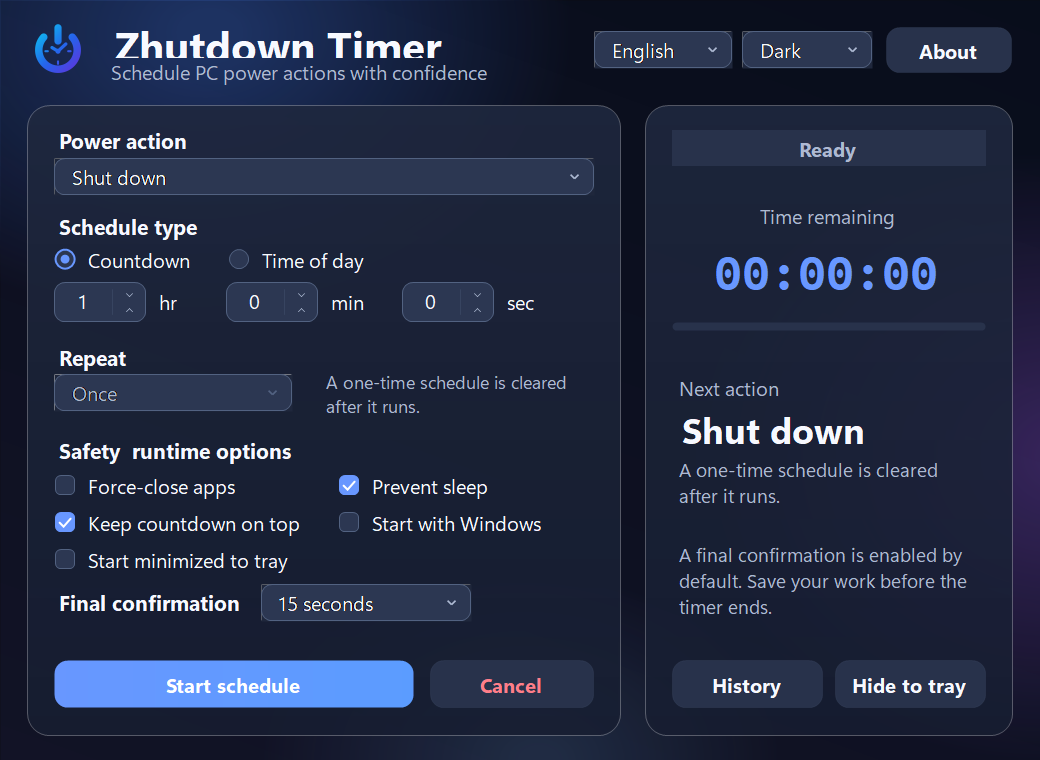
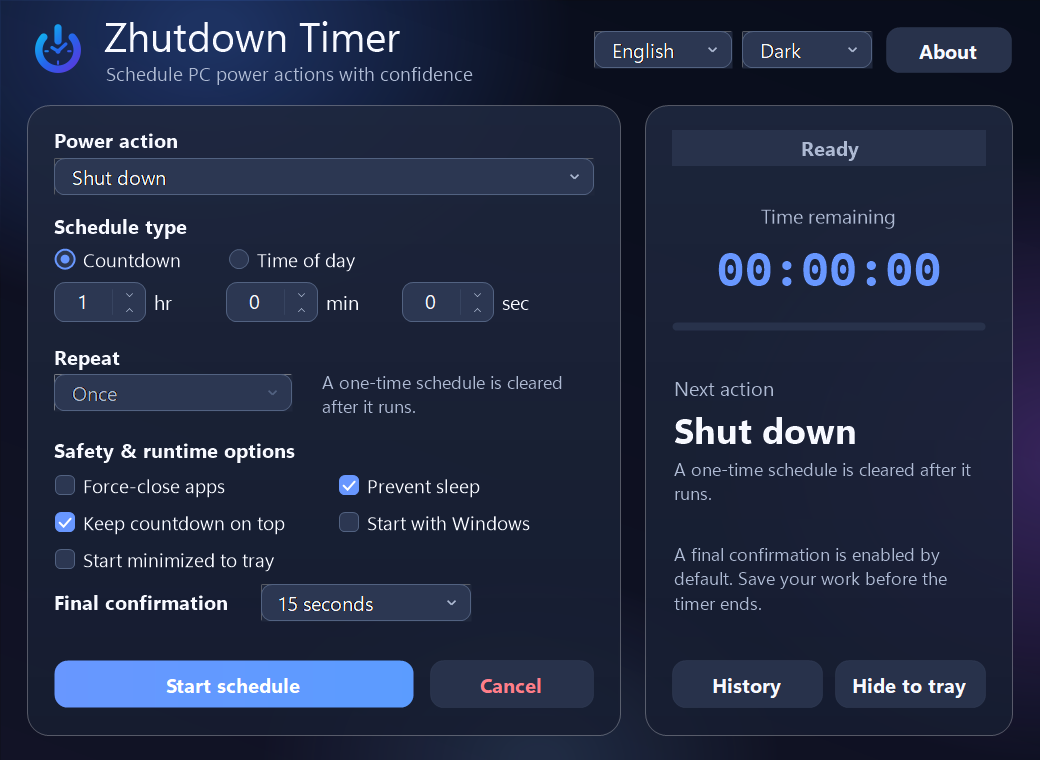
发布 v2.1.1 字体渲染修复
修复透明雾面层上的中文标题渲染、ClearType 彩边及高 DPI 输入框文字裁切。

diff --git a/src/ZhutdownTimer/MainForm.cs b/src/ZhutdownTimer/MainForm.cs
@@ -16,17 +16,17 @@ namespace ZhutdownTimer
         private readonly ToolStripMenuItem trayExit = new ToolStripMenuItem();
 
         private readonly PictureBox logo = new PictureBox();
-        private readonly Label titleLabel = new Label();
-        private readonly Label subtitleLabel = new Label();
+        private readonly GlassLabel titleLabel = new GlassLabel();
+        private readonly GlassLabel subtitleLabel = new GlassLabel();
         private readonly ModernComboBox languageBox = new ModernComboBox();
         private readonly ModernComboBox themeBox = new ModernComboBox();
         private readonly ModernButton aboutButton = new ModernButton();
 
         private readonly CardPanel scheduleCard = new CardPanel();
         private readonly CardPanel statusCard = new CardPanel();
-        private readonly Label actionCaption = new Label();
+        private readonly GlassLabel actionCaption = new GlassLabel();
         private readonly ModernComboBox actionBox = new ModernComboBox();
-        private readonly Label scheduleCaption = new Label();
+        private readonly GlassLabel scheduleCaption = new GlassLabel();
         private readonly GlassRadioButton countdownMode = new GlassRadioButton();
         private readonly GlassRadioButton clockMode = new GlassRadioButton();
         private readonly Panel countdownPanel = new Panel();
@@ -34,32 +34,32 @@ namespace ZhutdownTimer
         private readonly GlassNumberInput hours = new GlassNumberInput();
         private readonly GlassNumberInput minutes = new GlassNumberInput();
         private readonly GlassNumberInput seconds = new GlassNumberInput();
-        private readonly Label hoursLabel = new Label();
-        private readonly Label minutesLabel = new Label();
-        private readonly Label secondsLabel = new Label();
+        private readonly GlassLabel hoursLabel = new GlassLabel();
+        private readonly GlassLabel minutesLabel = new GlassLabel();
+        private readonly GlassLabel secondsLabel = new GlassLabel();
         private readonly GlassTimeInput clockPicker = new GlassTimeInput();
-        private readonly Label repeatCaption = new Label();
+        private readonly GlassLabel repeatCaption = new GlassLabel();
         private readonly ModernComboBox repeatBox = new ModernComboBox();
-        private readonly Label optionsCaption = new Label();
+        private readonly GlassLabel optionsCaption = new GlassLabel();
         private readonly GlassCheckBox forceClose = new GlassCheckBox();
         private readonly GlassCheckBox preventSleep = new GlassCheckBox();
         private readonly GlassCheckBox alwaysOnTop = new GlassCheckBox();
         private readonly GlassCheckBox startWithWindows = new GlassCheckBox();
         private readonly GlassCheckBox startMinimized = new GlassCheckBox();
-        private readonly Label confirmCaption = new Label();
+        private readonly GlassLabel confirmCaption = new GlassLabel();
         private readonly ModernComboBox confirmBox = new ModernComboBox();
-        private readonly Label repeatHint = new Label();
+        private readonly GlassLabel repeatHint = new GlassLabel();
         private readonly ModernButton startButton = new ModernButton();
         private readonly ModernButton cancelButton = new ModernButton();
 
-        private readonly Label stateBadge = new Label();
-        private readonly Label remainingCaption = new Label();
-        private readonly Label remainingLabel = new Label();
+        private readonly GlassLabel stateBadge = new GlassLabel();
+        private readonly GlassLabel remainingCaption = new GlassLabel();
+        private readonly GlassLabel remainingLabel = new GlassLabel();
         private readonly FlatProgressBar progress = new FlatProgressBar();
-        private readonly Label nextCaption = new Label();
-        private readonly Label actionLabel = new Label();
-        private readonly Label targetLabel = new Label();
-        private readonly Label safetyHint = new Label();
+        private readonly GlassLabel nextCaption = new GlassLabel();
+        private readonly GlassLabel actionLabel = new GlassLabel();
+        private readonly GlassLabel targetLabel = new GlassLabel();
+        private readonly GlassLabel safetyHint = new GlassLabel();
         private readonly ModernButton historyButton = new ModernButton();
         private readonly ModernButton minimizeButton = new ModernButton();
 
@@ -119,10 +119,10 @@ namespace ZhutdownTimer
             logo.Image = AssetLoader.LoadLogo();
             logo.SizeMode = PictureBoxSizeMode.Zoom;
             logo.SetBounds(28, 20, 60, 60);
-            titleLabel.Font = UiFonts.Create(21F, FontStyle.Bold);
-            titleLabel.SetBounds(104, 17, 390, 42);
+            titleLabel.Font = UiFonts.Create(20.5F, FontStyle.Regular);
+            titleLabel.SetBounds(104, 8, 390, 52);
             subtitleLabel.Font = UiFonts.Create(9.6F, FontStyle.Regular);
-            subtitleLabel.SetBounds(106, 58, 460, 28);
+            subtitleLabel.SetBounds(106, 60, 460, 28);
 
             languageBox.DropDownStyle = ComboBoxStyle.DropDownList;
             languageBox.SetBounds(594, 31, 138, 38);
@@ -476,7 +476,7 @@ namespace ZhutdownTimer
         private void ApplyTypography()
         {
             Font = UiFonts.Create(10F, FontStyle.Regular);
-            titleLabel.Font = UiFonts.Create(21F, FontStyle.Bold);
+            titleLabel.Font = UiFonts.Create(20.5F, FontStyle.Regular);
             subtitleLabel.Font = UiFonts.Create(9.6F, FontStyle.Regular);
             actionCaption.Font = scheduleCaption.Font = repeatCaption.Font = optionsCaption.Font = confirmCaption.Font = UiFonts.Create(10.2F, FontStyle.Bold);
             remainingCaption.Font = nextCaption.Font = UiFonts.Create(10F, FontStyle.Regular);
@@ -496,8 +496,9 @@ namespace ZhutdownTimer
                 actionLabel, targetLabel, safetyHint })
             {
                 label.AutoEllipsis = true;
-                label.UseCompatibleTextRendering = false;
+                label.UseCompatibleTextRendering = true;
             }
+            titleLabel.AutoEllipsis = subtitleLabel.AutoEllipsis = false;
             repeatHint.AutoEllipsis = targetLabel.AutoEllipsis = safetyHint.AutoEllipsis = false;
         }
 

diff --git a/src/ZhutdownTimer/Controls.cs b/src/ZhutdownTimer/Controls.cs
@@ -1,6 +1,7 @@
 using System;
 using System.Drawing;
 using System.Drawing.Drawing2D;
+using System.Drawing.Text;
 using System.Windows.Forms;
 
 namespace ZhutdownTimer
@@ -75,6 +76,47 @@ namespace ZhutdownTimer
             path.AddArc(rectangle.Left, rectangle.Bottom - diameter, diameter, diameter, 90, 90);
             path.CloseFigure();
             return path;
+        }
+    }
+
+    internal static class UiText
+    {
+        public static void Draw(Graphics graphics, string text, Font font, Color color, Rectangle bounds,
+            ContentAlignment alignment, bool wrap, bool ellipsis)
+        {
+            graphics.TextRenderingHint = TextRenderingHint.AntiAliasGridFit;
+            using (var brush = new SolidBrush(color))
+            using (var format = new StringFormat(StringFormat.GenericTypographic))
+            {
+                format.Alignment = alignment == ContentAlignment.TopCenter || alignment == ContentAlignment.MiddleCenter || alignment == ContentAlignment.BottomCenter
+                    ? StringAlignment.Center
+                    : alignment == ContentAlignment.TopRight || alignment == ContentAlignment.MiddleRight || alignment == ContentAlignment.BottomRight
+                        ? StringAlignment.Far : StringAlignment.Near;
+                format.LineAlignment = alignment == ContentAlignment.MiddleLeft || alignment == ContentAlignment.MiddleCenter || alignment == ContentAlignment.MiddleRight
+                    ? StringAlignment.Center
+                    : alignment == ContentAlignment.BottomLeft || alignment == ContentAlignment.BottomCenter || alignment == ContentAlignment.BottomRight
+                        ? StringAlignment.Far : StringAlignment.Near;
+                if (!wrap) format.FormatFlags |= StringFormatFlags.NoWrap;
+                format.Trimming = ellipsis ? StringTrimming.EllipsisCharacter : StringTrimming.None;
+                graphics.DrawString(text ?? string.Empty, font, brush, bounds, format);
+            }
+        }
+    }
+
+    internal sealed class GlassLabel : Label
+    {
+        public GlassLabel()
+        {
+            DoubleBuffered = true;
+            SetStyle(ControlStyles.UserPaint | ControlStyles.AllPaintingInWmPaint | ControlStyles.OptimizedDoubleBuffer | ControlStyles.SupportsTransparentBackColor, true);
+            BackColor = Color.Transparent;
+            UseCompatibleTextRendering = true;
+        }
+
+        protected override void OnPaint(PaintEventArgs e)
+        {
+            UiText.Draw(e.Graphics, Text, Font, Enabled ? ForeColor : SystemColors.GrayText, ClientRectangle,
+                TextAlign, !AutoEllipsis, AutoEllipsis);
         }
     }
 
@@ -279,6 +321,7 @@ namespace ZhutdownTimer
             SetStyle(ControlStyles.SupportsTransparentBackColor, true);
             BackColor = Color.Transparent;
             editor.BorderStyle = BorderStyle.None;
+            editor.AutoSize = false;
             editor.TextAlign = HorizontalAlignment.Center;
             editor.Text = "0";
             editor.MaxLength = 3;
@@ -380,6 +423,7 @@ namespace ZhutdownTimer
             SetStyle(ControlStyles.SupportsTransparentBackColor, true);
             BackColor = Color.Transparent;
             editor.BorderStyle = BorderStyle.None;
+            editor.AutoSize = false;
             editor.TextAlign = HorizontalAlignment.Left;
             editor.Text = time.ToString("HH:mm:ss");
             editor.MaxLength = 8;
@@ -468,8 +512,8 @@ namespace ZhutdownTimer
                 }
             }
             Rectangle textBounds = new Rectangle(29, 0, Math.Max(1, Width - 30), Height);
-            TextRenderer.DrawText(e.Graphics, Text, Font, textBounds, Enabled ? p.Text : p.Muted,
-                TextFormatFlags.Left | TextFormatFlags.VerticalCenter | TextFormatFlags.EndEllipsis | TextFormatFlags.NoPrefix);
+            UiText.Draw(e.Graphics, Text, Font, Enabled ? p.Text : p.Muted, textBounds,
+                ContentAlignment.MiddleLeft, false, true);
         }
     }
 
@@ -499,8 +543,8 @@ namespace ZhutdownTimer
             if (Checked)
                 using (var dot = new SolidBrush(p.Accent)) e.Graphics.FillEllipse(dot, new Rectangle(circle.X + 5, circle.Y + 5, 9, 9));
             Rectangle textBounds = new Rectangle(29, 0, Math.Max(1, Width - 30), Height);
-            TextRenderer.DrawText(e.Graphics, Text, Font, textBounds, Enabled ? p.Text : p.Muted,
-                TextFormatFlags.Left | TextFormatFlags.VerticalCenter | TextFormatFlags.EndEllipsis | TextFormatFlags.NoPrefix);
+            UiText.Draw(e.Graphics, Text, Font, Enabled ? p.Text : p.Muted, textBounds,
+                ContentAlignment.MiddleLeft, false, true);
         }
     }
 

diff --git a/src/ZhutdownTimer/Dialogs.cs b/src/ZhutdownTimer/Dialogs.cs
@@ -9,8 +9,8 @@ namespace ZhutdownTimer
     internal sealed class ExecutionPromptForm : FrostedForm
     {
         private readonly Timer timer = new Timer();
-        private readonly Label countdownLabel = new Label();
-        private readonly Label bodyLabel = new Label();
+        private readonly GlassLabel countdownLabel = new GlassLabel();
+        private readonly GlassLabel bodyLabel = new GlassLabel();
         private int secondsLeft;
 
         public ExecutionPromptForm(PowerAction action, int seconds, ThemePalette palette)
@@ -28,7 +28,7 @@ namespace ZhutdownTimer
             Font = UiFonts.Create(10F, FontStyle.Regular);
             GlassPalette = palette;
 
-            var title = new Label
+            var title = new GlassLabel
             {
                 Text = string.Format(L.T("ConfirmTitle"), L.Action(action)),
                 Font = UiFonts.Create(18F, FontStyle.Bold),
@@ -183,12 +183,12 @@ namespace ZhutdownTimer
             GlassPalette = palette;
 
             var logo = new PictureBox { Image = AssetLoader.LoadLogo(), SizeMode = PictureBoxSizeMode.Zoom, Size = new Size(92, 92), Location = new Point(214, 24) };
-            var title = new Label { Text = L.T("AppTitle"), Font = UiFonts.Create(20F, FontStyle.Bold), AutoSize = false, TextAlign = ContentAlignment.MiddleCenter };
+            var title = new GlassLabel { Text = L.T("AppTitle"), Font = UiFonts.Create(20F, FontStyle.Bold), AutoSize = false, TextAlign = ContentAlignment.MiddleCenter };
             title.SetBounds(30, 126, 460, 48);
             Version version = Assembly.GetExecutingAssembly().GetName().Version;
-            var versionLabel = new Label { Text = string.Format(L.T("Version"), version.ToString(3)), AutoSize = false, TextAlign = ContentAlignment.MiddleCenter };
+            var versionLabel = new GlassLabel { Text = string.Format(L.T("Version"), version.ToString(3)), AutoSize = false, TextAlign = ContentAlignment.MiddleCenter };
             versionLabel.SetBounds(30, 176, 460, 28);
-            var body = new Label { Text = L.T("AboutBody"), AutoSize = false, TextAlign = ContentAlignment.TopCenter };
+            var body = new GlassLabel { Text = L.T("AboutBody"), AutoSize = false, TextAlign = ContentAlignment.TopCenter };
             body.SetBounds(50, 216, 420, 88);
 
             var source = new ModernButton { Text = L.T("SourceCode"), Palette = palette, Primary = true };

diff --git a/src/ZhutdownTimer/Program.cs b/src/ZhutdownTimer/Program.cs
@@ -132,6 +132,24 @@ namespace ZhutdownTimer
                             control.DrawToBitmap(bitmap, control.Bounds);
                         form.DrawPreviewOverlays(bitmap);
                         string suffix = store.State.Settings.Language == AppLanguage.English ? "en" : "zh";
+                        if (suffix == "zh")
+                        {
+                            using (Graphics titleGraphics = Graphics.FromImage(bitmap))
+                            using (Font titleFont = new Font("Microsoft YaHei UI", 20.5F, FontStyle.Regular, GraphicsUnit.Point))
+                            using (var titleBrush = new SolidBrush(ThemePalette.Create(ThemeDetector.UseDark(store.State.Settings.Theme)).Text))
+                            using (var titleFormat = new StringFormat(StringFormat.GenericTypographic))
+                            {
+                                titleGraphics.SmoothingMode = System.Drawing.Drawing2D.SmoothingMode.AntiAlias;
+                                titleFormat.FormatFlags |= StringFormatFlags.NoWrap;
+                                using (var titlePath = new System.Drawing.Drawing2D.GraphicsPath())
+                                {
+                                    float emSize = titleFont.SizeInPoints * titleGraphics.DpiY / 72F;
+                                    titlePath.AddString("定时电源助手", titleFont.FontFamily, (int)titleFont.Style,
+                                        emSize, new PointF(104, 8), titleFormat);
+                                    titleGraphics.FillPath(titleBrush, titlePath);
+                                }
+                            }
+                        }
                         string path = Path.Combine(Environment.CurrentDirectory, "ui-preview-" + suffix + ".png");
                         bitmap.Save(path, System.Drawing.Imaging.ImageFormat.Png);
                         Console.WriteLine(path);

diff --git a/src/ZhutdownTimer/AssemblyInfo.cs b/src/ZhutdownTimer/AssemblyInfo.cs
@@ -8,5 +8,5 @@ using System.Runtime.InteropServices;
 [assembly: AssemblyCopyright("Copyright © 2026 LONGSANGDONTSLEEP")]
 [assembly: ComVisible(false)]
 [assembly: Guid("3d701a31-7959-4b27-8527-a3bbf6918f50")]
-[assembly: AssemblyVersion("2.1.0.0")]
-[assembly: AssemblyFileVersion("2.1.0.0")]
+[assembly: AssemblyVersion("2.1.1.0")]
+[assembly: AssemblyFileVersion("2.1.1.0")]

diff --git a/README_EN.md b/README_EN.md
@@ -30,8 +30,8 @@ Open [the latest GitHub Release](https://github.com/LONGSANGDONTSLEEP/ZhutdownTi
 
 | File | Use |
 |---|---|
-| `ZhutdownTimer-Setup-v2.1.0.exe` | Recommended per-user installer with Start Menu and uninstall entries; no admin rights required |
-| `ZhutdownTimer-portable-v2.1.0.zip` | Portable build; extract and run |
+| `ZhutdownTimer-Setup-v2.1.1.exe` | Recommended per-user installer with Start Menu and uninstall entries; no admin rights required |
+| `ZhutdownTimer-portable-v2.1.1.zip` | Portable build; extract and run |
 | `SHA256SUMS.txt` | SHA-256 integrity checks |
 
 Requirements: Windows 10/11 and .NET Framework 4.8.

diff --git a/README.md b/README.md
@@ -31,8 +31,8 @@
 
 | 文件 | 适用场景 |
 |---|---|
-| `ZhutdownTimer-Setup-v2.1.0.exe` | 推荐。当前用户安装，带开始菜单和标准卸载入口，不需要管理员权限 |
-| `ZhutdownTimer-portable-v2.1.0.zip` | 便携版。解压后直接运行 |
+| `ZhutdownTimer-Setup-v2.1.1.exe` | 推荐。当前用户安装，带开始菜单和标准卸载入口，不需要管理员权限 |
+| `ZhutdownTimer-portable-v2.1.1.zip` | 便携版。解压后直接运行 |
 | `SHA256SUMS.txt` | 用于核验下载文件是否完整 |
 
 系统要求：Windows 10/11，.NET Framework 4.8。安装程序与便携版功能相同。

diff --git a/CHANGELOG.md b/CHANGELOG.md
@@ -1,5 +1,12 @@
 # 更新日志
 
+## 2.1.1 — 2026-08-19
+
+- 将透明雾面层上的标签切换为灰阶抗锯齿绘制，修复中文标题彩边、粘连和疑似缺笔画问题
+- 调整中文主标题字重与行框，并为文档截图使用确定性的字形轮廓渲染
+- 固定数字与时间输入框的内部文本高度，避免高 DPI 下裁掉文字下沿
+- 将复选框和单选框文字统一到相同的抗锯齿渲染路径
+
 ## 2.1.0 — 2026-08-19
 
 - 以柔和环境光、半透明卡片和细腻阴影重建雾面玻璃视觉系统
